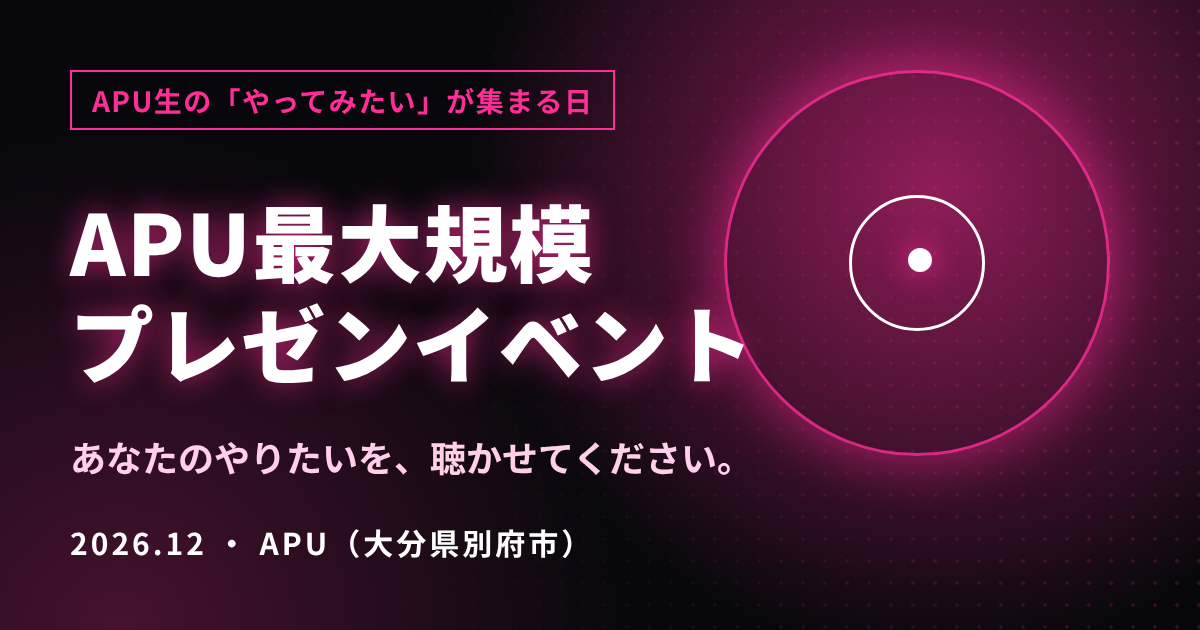
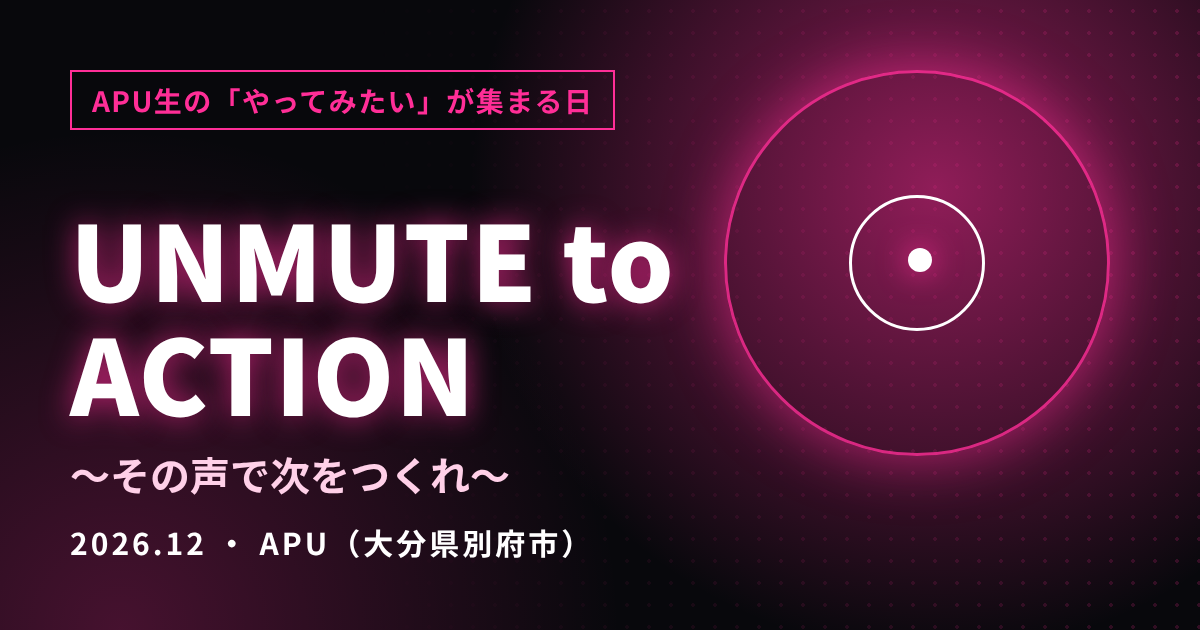
Set title UNMUTE to ACTION, date/venue/organizer/contacts
Claude-Session: https://claude.ai/code/session_01LWQqeyQkYqcUmKZUwuo29b

Changed region(s): [[0.0308, 0.3016, 0.6167, 0.7841]]

diff --git a/index.html b/index.html
@@ -3,11 +3,11 @@
 <head>
   <meta charset="UTF-8">
   <meta name="viewport" content="width=device-width, initial-scale=1, viewport-fit=cover">
-  <title>APU最大規模プレゼンイベント(仮)|登壇者募集中</title>
+  <title>UNMUTE to ACTION|登壇者募集中</title>
   <meta name="description" content="1Qで芽生えた情熱を、言葉にして世界に叫ぶ。APU生の「やってみたい」が集まるプレゼンイベントです。登壇者募集中。">
   <meta property="og:type" content="website">
-  <meta property="og:site_name" content="APU最大規模プレゼンイベント(仮)">
-  <meta property="og:title" content="APU最大規模プレゼンイベント(仮)|登壇者募集中">
+  <meta property="og:site_name" content="UNMUTE to ACTION">
+  <meta property="og:title" content="UNMUTE to ACTION|登壇者募集中">
   <meta property="og:description" content="1Qで芽生えた情熱を、言葉にして世界に叫ぶ。APU生の「やってみたい」が集まるプレゼンイベントです。登壇者募集中。">
   <meta property="og:url" content="https://shintaroyade.github.io/apu-event/index.html">
   <meta property="og:image" content="https://shintaroyade.github.io/apu-event/ogp.png">
@@ -99,6 +99,7 @@
       <div class="hero__inner">
         <p class="hero__eyebrow fade-in" style="--d:.05s" data-i18n="hero.eyebrow"></p>
         <h1 id="hero-title" class="hero__title fade-in" style="--d:.15s"><budoux-ja data-cfg="event.name"></budoux-ja></h1>
+        <p class="hero__subtitle fade-in" style="--d:.22s" data-cfg="event.subtitle"></p>
         <p class="hero__concept fade-in" style="--d:.3s" data-i18n="hero.concept"></p>
         <dl class="hero__info fade-in" style="--d:.45s">
           <div><dt data-i18n="hero.dateLabel"></dt><dd data-cfg="event.date"></dd></div>

diff --git a/config.js b/config.js
@@ -12,25 +12,33 @@ const CONFIG = {
   /* ---------- イベント基本情報 ---------- */
   event: {
     name: {
-      ja: "APU最大規模\u200bプレゼン\u200bイベント(仮)",
-      en: "APU's Largest Presentation Event (tentative)"
+      ja: "UNMUTE to ACTION",
+      en: "UNMUTE to ACTION"
+    },
+    subtitle: {
+      ja: "〜その声で次をつくれ〜",
+      en: "~ Turn your voice into what's next ~"
     },
     date: {
-      ja: "【2026年12月○日(○)\n○時〜○時(約3時間)】",
-      en: "【Dec ○, 2026 (○)\n○:00–○:00 (approx. 3 hours)】"
+      ja: "2026年12月上旬\n(日時は決まり次第発表します)",
+      en: "Early December 2026\n(Date & time to be announced)"
     },
     venue: {
-      ja: "【APU J101教室】",
-      en: "【APU Room J101】"
+      ja: "APU J101教室(予定)",
+      en: "APU Room J101 (planned)"
     }
   },
 
   /* ---------- 主催者・問い合わせ先 ---------- */
   organizer: {
-    name: { ja: "【主催団体名】", en: "【Organizer name】" },
-    instagram: "【Instagramアカウント名】",   // 例: "@nsj_apu"
+    name: { ja: "NEXT SPARK JAPAN 森山慎太郎", en: "NEXT SPARK JAPAN / Shintaro Moriyama" },
+    instagram: "@nextsparkjapan / @shintaroyade",
+    instagrams: [
+      { label: "@nextsparkjapan", url: "https://www.instagram.com/nextsparkjapan/" },
+      { label: "@shintaroyade",   url: "https://www.instagram.com/shintaroyade/" }
+    ],
     instagramUrl: "",                        // 例: "https://www.instagram.com/xxxx/"(空ならリンクにしない)
-    email: "【メールアドレス】"               // 例: "xxxx@example.com"
+    email: "nextsparkjapan@gmail.com"               // 例: "xxxx@example.com"
   },
 
   /* ---------- リンク ---------- */

diff --git a/i18n_extra.js b/i18n_extra.js
@@ -4,12 +4,12 @@
  * ========================================================================= */
 Object.assign(I18N.ja, {
   "skip": "本文へ移動",
-  "meta.homeTitle": "APU最大規模プレゼンイベント(仮)|登壇者募集中",
-  "meta.programTitle": "当日の流れ|APU最大規模プレゼンイベント(仮)",
-  "meta.playTitle": "あそぶ|APU最大規模プレゼンイベント(仮)",
-  "meta.speakerTitle": "登壇者募集|APU最大規模プレゼンイベント(仮)",
-  "meta.entryTitle": "参加申込|APU最大規模プレゼンイベント(仮)",
-  "meta.faqTitle": "よくある質問・お問い合わせ|APU最大規模プレゼンイベント(仮)",
+  "meta.homeTitle": "UNMUTE to ACTION|登壇者募集中",
+  "meta.programTitle": "当日の流れ|UNMUTE to ACTION",
+  "meta.playTitle": "あそぶ|UNMUTE to ACTION",
+  "meta.speakerTitle": "登壇者募集|UNMUTE to ACTION",
+  "meta.entryTitle": "参加申込|UNMUTE to ACTION",
+  "meta.faqTitle": "よくある質問・お問い合わせ|UNMUTE to ACTION",
 
   "nav.home": "ホーム",
   "nav.program": "当日の流れ",
@@ -117,7 +117,7 @@ Object.assign(I18N.en, {
 });
 
 Object.assign(I18N.ja, {
-  "meta.wallTitle": "みんなのやってみたい|APU最大規模プレゼンイベント(仮)",
+  "meta.wallTitle": "みんなのやってみたい|UNMUTE to ACTION",
   "nav.wall": "みんなのやってみたい",
   "hub.wall.name": "みんなのやってみたい",
   "hub.wall.desc": "参加者のひとことを一覧で。あなたの一言も載るかも",

diff --git a/faq.html b/faq.html
@@ -3,11 +3,11 @@
 <head>
   <meta charset="UTF-8">
   <meta name="viewport" content="width=device-width, initial-scale=1, viewport-fit=cover">
-  <title>よくある質問・お問い合わせ|APU最大規模プレゼンイベント(仮)</title>
+  <title>よくある質問・お問い合わせ|UNMUTE to ACTION</title>
   <meta name="description" content="入退場・参加費などのよくある質問と、主催者の連絡先です。">
   <meta property="og:type" content="website">
-  <meta property="og:site_name" content="APU最大規模プレゼンイベント(仮)">
-  <meta property="og:title" content="よくある質問・お問い合わせ|APU最大規模プレゼンイベント(仮)">
+  <meta property="og:site_name" content="UNMUTE to ACTION">
+  <meta property="og:title" content="よくある質問・お問い合わせ|UNMUTE to ACTION">
   <meta property="og:description" content="入退場・参加費などのよくある質問と、主催者の連絡先です。">
   <meta property="og:url" content="https://shintaroyade.github.io/apu-event/faq.html">
   <meta property="og:image" content="https://shintaroyade.github.io/apu-event/ogp.png">

diff --git a/wall.html b/wall.html
@@ -3,11 +3,11 @@
 <head>
   <meta charset="UTF-8">
   <meta name="viewport" content="width=device-width, initial-scale=1, viewport-fit=cover">
-  <title>みんなのやってみたい|APU最大規模プレゼンイベント(仮)</title>
+  <title>みんなのやってみたい|UNMUTE to ACTION</title>
   <meta name="description" content="参加する人の「今やってみたいこと」を、ひとことずつ集めました。">
   <meta property="og:type" content="website">
-  <meta property="og:site_name" content="APU最大規模プレゼンイベント(仮)">
-  <meta property="og:title" content="みんなのやってみたい|APU最大規模プレゼンイベント(仮)">
+  <meta property="og:site_name" content="UNMUTE to ACTION">
+  <meta property="og:title" content="みんなのやってみたい|UNMUTE to ACTION">
   <meta property="og:description" content="参加する人の「今やってみたいこと」を、ひとことずつ集めました。">
   <meta property="og:url" content="https://shintaroyade.github.io/apu-event/wall.html">
   <meta property="og:image" content="https://shintaroyade.github.io/apu-event/ogp.png">

diff --git a/speaker.html b/speaker.html
@@ -3,11 +3,11 @@
 <head>
   <meta charset="UTF-8">
   <meta name="viewport" content="width=device-width, initial-scale=1, viewport-fit=cover">
-  <title>登壇者募集|APU最大規模プレゼンイベント(仮)</title>
+  <title>登壇者募集|UNMUTE to ACTION</title>
   <meta name="description" content="あなたの「やってみたい」を5分で話す、個人プレゼンの登壇者を募集しています。">
   <meta property="og:type" content="website">
-  <meta property="og:site_name" content="APU最大規模プレゼンイベント(仮)">
-  <meta property="og:title" content="登壇者募集|APU最大規模プレゼンイベント(仮)">
+  <meta property="og:site_name" content="UNMUTE to ACTION">
+  <meta property="og:title" content="登壇者募集|UNMUTE to ACTION">
   <meta property="og:description" content="あなたの「やってみたい」を5分で話す、個人プレゼンの登壇者を募集しています。">
   <meta property="og:url" content="https://shintaroyade.github.io/apu-event/speaker.html">
   <meta property="og:image" content="https://shintaroyade.github.io/apu-event/ogp.png">

diff --git a/entry.html b/entry.html
@@ -3,11 +3,11 @@
 <head>
   <meta charset="UTF-8">
   <meta name="viewport" content="width=device-width, initial-scale=1, viewport-fit=cover">
-  <title>参加申込|APU最大規模プレゼンイベント(仮)</title>
+  <title>参加申込|UNMUTE to ACTION</title>
   <meta name="description" content="APU生の「やってみたい」が集まるプレゼンイベントの参加申込ページです。">
   <meta property="og:type" content="website">
-  <meta property="og:site_name" content="APU最大規模プレゼンイベント(仮)">
-  <meta property="og:title" content="参加申込|APU最大規模プレゼンイベント(仮)">
+  <meta property="og:site_name" content="UNMUTE to ACTION">
+  <meta property="og:title" content="参加申込|UNMUTE to ACTION">
   <meta property="og:description" content="APU生の「やってみたい」が集まるプレゼンイベントの参加申込ページです。">
   <meta property="og:url" content="https://shintaroyade.github.io/apu-event/entry.html">
   <meta property="og:image" content="https://shintaroyade.github.io/apu-event/ogp.png">

diff --git a/program.html b/program.html
@@ -3,11 +3,11 @@
 <head>
   <meta charset="UTF-8">
   <meta name="viewport" content="width=device-width, initial-scale=1, viewport-fit=cover">
-  <title>当日の流れ|APU最大規模プレゼンイベント(仮)</title>
+  <title>当日の流れ|UNMUTE to ACTION</title>
   <meta name="description" content="3時間のプログラムを、気になるところから探検できます。">
   <meta property="og:type" content="website">
-  <meta property="og:site_name" content="APU最大規模プレゼンイベント(仮)">
-  <meta property="og:title" content="当日の流れ|APU最大規模プレゼンイベント(仮)">
+  <meta property="og:site_name" content="UNMUTE to ACTION">
+  <meta property="og:title" content="当日の流れ|UNMUTE to ACTION">
   <meta property="og:description" content="3時間のプログラムを、気になるところから探検できます。">
   <meta property="og:url" content="https://shintaroyade.github.io/apu-event/program.html">
   <meta property="og:image" content="https://shintaroyade.github.io/apu-event/ogp.png">

diff --git a/play.html b/play.html
@@ -3,11 +3,11 @@
 <head>
   <meta charset="UTF-8">
   <meta name="viewport" content="width=device-width, initial-scale=1, viewport-fit=cover">
-  <title>あそぶ|APU最大規模プレゼンイベント(仮)</title>
+  <title>あそぶ|UNMUTE to ACTION</title>
   <meta name="description" content="タイプ診断とミッションで、イベントを先取りしよう。">
   <meta property="og:type" content="website">
-  <meta property="og:site_name" content="APU最大規模プレゼンイベント(仮)">
-  <meta property="og:title" content="あそぶ|APU最大規模プレゼンイベント(仮)">
+  <meta property="og:site_name" content="UNMUTE to ACTION">
+  <meta property="og:title" content="あそぶ|UNMUTE to ACTION">
   <meta property="og:description" content="タイプ診断とミッションで、イベントを先取りしよう。">
   <meta property="og:url" content="https://shintaroyade.github.io/apu-event/play.html">
   <meta property="og:image" content="https://shintaroyade.github.io/apu-event/ogp.png">

diff --git a/i18n.js b/i18n.js
@@ -15,7 +15,7 @@ const I18N = {
     "common.testMode": "テストモード:送信先が未設定のため、送信内容はブラウザのコンソールに出力されます",
 
     /* ---- index:メタ・ナビ ---- */
-    "meta.indexTitle": "参加申込|APU最大規模プレゼンイベント(仮)",
+    "meta.indexTitle": "参加申込|UNMUTE to ACTION",
     "skip": "参加申込フォームへ移動",
     "sticky.cta": "参加申込",
 
@@ -212,7 +212,7 @@ const I18N = {
     "contact.email": "メール",
 
     /* ---- 投票ページ ---- */
-    "meta.voteTitle": "共感度投票|APU最大規模プレゼンイベント(仮)",
+    "meta.voteTitle": "共感度投票|UNMUTE to ACTION",
     "vote.title": "共感度投票",
     "vote.lead": "共感した気持ちを、ハートで届けてください。",
     "vote.step1": "発表者",

diff --git a/index.js b/index.js
@@ -565,7 +565,14 @@
   function initContact() {
     const insta = $("#contactInsta"), mail = $("#contactEmail");
     const o = CONFIG.organizer;
-    if (insta) {
+    if (insta && Array.isArray(o.instagrams) && o.instagrams.length) {
+      o.instagrams.forEach((it, i) => {
+        if (i) insta.appendChild(document.createTextNode(" / "));
+        const a = document.createElement("a");
+        a.href = it.url; a.target = "_blank"; a.rel = "noopener"; a.textContent = it.label;
+        insta.appendChild(a);
+      });
+    } else if (insta) {
       if (o.instagramUrl) {
         const a = document.createElement("a");
         a.href = o.instagramUrl; a.target = "_blank"; a.rel = "noopener"; a.textContent = o.instagram;

diff --git a/site.css b/site.css
@@ -411,3 +411,7 @@ html:not([lang="en"]) .intro__line, html:not([lang="en"]) .intro__line .ch { whi
 @keyframes introFlags { to { transform: translateX(-50%); } }
 @media (max-height: 600px) { .intro__cap { font-size: 11.5px; } .intro__flagtrack { font-size: 18px; } }
 @media (max-height: 520px) { .intro__cap, .intro__bands { display: none; } }
+
+/* サブタイトル(イベント名の下) */
+.hero__subtitle { margin: -6px 0 16px; font-size: clamp(14px, 4vw, 17px); font-weight: 700; letter-spacing: .08em; color: var(--c-pink, #ff2e97); }
+.hero__title { white-space: nowrap; }
